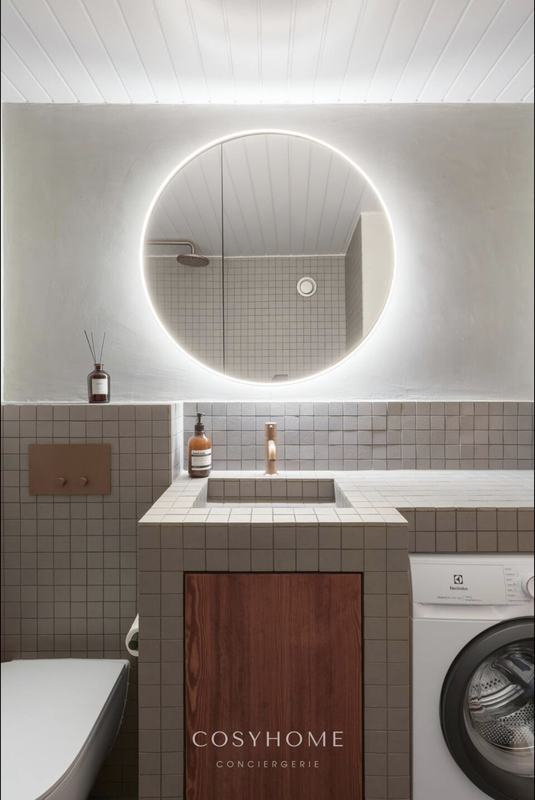
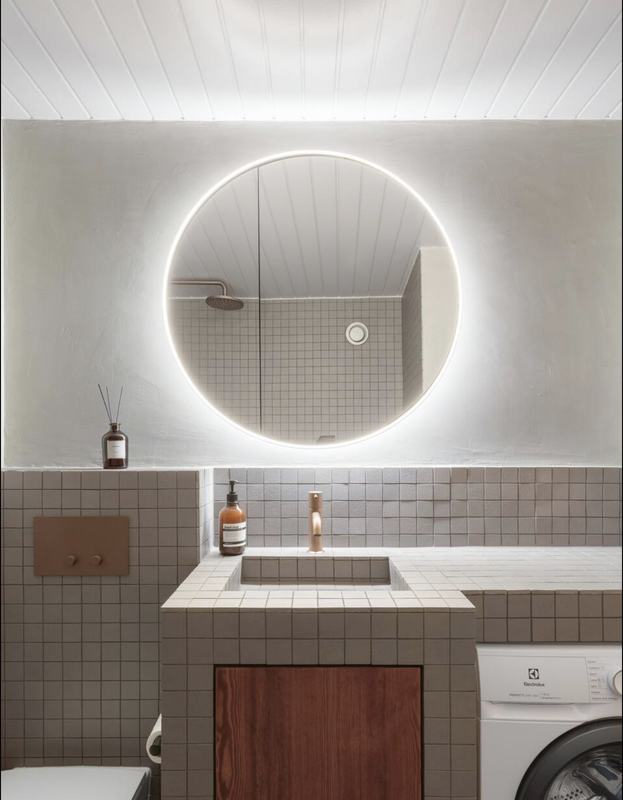
Retire toute mention CosyHome : photos du propriétaire, recadrages, textes
Claude-Session: https://claude.ai/code/session_0189ruPcNKvbbUJWKBvAGqPG

diff --git a/index.html b/index.html
@@ -14,7 +14,7 @@
 <link rel="manifest" href="manifest.webmanifest">
 <meta property="og:title" content="La Concorde · Crans-Montana">
 <meta property="og:description" content="Un balcon sur les Alpes, à 1362 m.">
-<meta property="og:image" content="img/balcon-1600.jpg">
+<meta property="og:image" content="img/hero-1600.jpg">
 <link rel="preconnect" href="https://fonts.googleapis.com">
 <link rel="preconnect" href="https://fonts.gstatic.com" crossorigin>
 <link href="https://fonts.googleapis.com/css2?family=Instrument+Serif:ital@0;1&family=Hanken+Grotesk:wght@400;500;600&display=swap" rel="stylesheet">
@@ -242,12 +242,14 @@ footer .sign { font-family: var(--serif); font-size: 28px; color: var(--ink); ma
         <p class="fr">D’où le terrazzo gris perle du hall, le mélèze massif au plafond et en façade, les pilotis de béton, la lucarne zénithale au‑dessus du palier, l’escalier en blocs de pierre et les box à skis surdimensionnés, en réalité taillés pour accueillir aussi le matériel de golf.</p><p class="en">Hence the pearl-grey terrazzo in the hall, solid larch on the ceilings and façade, the concrete piers, the full-height skylight above the landing, the stone-block staircase and the oversized ski lockers, in fact sized for golf bags too.</p>
         <p class="fr">L’architecture regardait moins vers les chalets de l’Oberland que vers la Californie des Case Study Houses, d’Eichler et de Neutra : plafond de bois continu qui file de l’intérieur vers l’extérieur, baies horizontales en bandeau, balcon qui prolonge le séjour. Le mélèze, bois des hautes vallées valaisannes, y tient le rôle du séquoia.</p><p class="en">The architecture looked less to the chalets of the Bernese Oberland than to the California of the Case Study Houses, Eichler and Neutra: a continuous timber ceiling running from inside to outside, horizontal ribbon windows, a balcony that extends the living room. Larch, the wood of the high Valais valleys, plays the part of redwood.</p>
       </div>
-      <div class="shots two" style="margin-top:6px">
-        <figure><button data-full="img/immeuble-1600.jpg"><img src="img/immeuble-800.jpg" alt="Façade sud-ouest" loading="lazy"></button>
+      <div class="shots">
+        <figure class="wide"><button data-full="img/facade-34-1600.jpg"><img src="img/facade-34-800.jpg" srcset="img/facade-34-800.jpg 800w, img/facade-34-1600.jpg 1600w" sizes="(min-width:1200px) 1160px, 100vw" alt="Façade sud-ouest" loading="lazy"></button>
       <figcaption><span class="fr">Façade sud‑ouest : ossature mélèze sur pilotis de béton, balcons en porte‑à‑faux.</span><span class="en">South-west façade: larch frame on concrete piers, cantilevered balconies.</span></figcaption></figure>
-        <figure><button data-full="img/escalier-1600.jpg"><img src="img/escalier-800.jpg" alt="Lucarne au-dessus de l’escalier" loading="lazy"></button>
-      <figcaption><span class="fr">La lucarne zénithale au‑dessus du palier.</span><span class="en">The skylight above the landing.</span></figcaption></figure>
       </div>
+    </div>
+    <div class="shots" style="margin-top:10px">
+      <figure class="wide"><button data-full="img/facade-ete-1600.jpg"><img src="img/facade-ete-800.jpg" srcset="img/facade-ete-800.jpg 800w, img/facade-ete-1600.jpg 1600w" sizes="(min-width:1200px) 1160px, 100vw" alt="Façade en été" loading="lazy"></button>
+      <figcaption><span class="fr">Les baies en bandeau sous le grand avant‑toit.</span><span class="en">Ribbon windows under the deep eaves.</span></figcaption></figure>
     </div>
   </div>
 </section>
@@ -281,19 +283,19 @@ footer .sign { font-family: var(--serif); font-size: 28px; color: var(--ink); ma
         <p class="fr">Il court le long des baies sous le plafond de mélèze, entre la cheminée et la table ronde, face à la vue.</p><p class="en">It runs along the windows under the larch ceiling, between the fireplace and the round table, facing the view.</p>
       </div>
       <div class="shots">
-        <figure><button data-full="img/sejour-1600.jpg"><img src="img/sejour-800.jpg" srcset="img/sejour-800.jpg 800w, img/sejour-1600.jpg 1600w" sizes="(min-width:1200px) 1160px, 100vw" alt="Séjour" loading="lazy"></button></figure>
+        <figure class="wide"><button data-full="img/sejour-soleil-1600.jpg"><img src="img/sejour-soleil-800.jpg" srcset="img/sejour-soleil-800.jpg 800w, img/sejour-soleil-1600.jpg 1600w" sizes="(min-width:1200px) 1160px, 100vw" alt="Séjour au soleil" loading="lazy"></button></figure>
       </div>
-      <div class="shots two" style="margin-top:10px">
+      <div class="shots three" style="margin-top:10px">
+        <figure><button data-full="img/table-vue-1600.jpg"><img src="img/table-vue-800.jpg" alt="Table ronde et chaises Cesca" loading="lazy"></button>
+      <figcaption><span class="fr">Chaises Cesca de Marcel Breuer autour de la table ronde, face à la plaine.</span><span class="en">Marcel Breuer’s Cesca chairs around the round table, facing the plain.</span></figcaption></figure>
         <figure><button data-full="img/cheminee-1600.jpg"><img src="img/cheminee-800.jpg" alt="Cheminée et Lamp B" loading="lazy"></button>
-      <figcaption><span class="fr">Hotte de cheminée blanche descendant du plafond, poêle en fonte, Lamp B de Thierry Dreyfus.</span><span class="en">White chimney hood dropping from the ceiling, cast-iron stove, Thierry Dreyfus’s Lamp B.</span></figcaption></figure>
-        <figure><button data-full="img/cesca-1600.jpg"><img src="img/cesca-800.jpg" alt="Chaises Cesca" loading="lazy"></button>
-      <figcaption><span class="fr">Chaises Cesca de Marcel Breuer autour de la table ronde.</span><span class="en">Marcel Breuer’s Cesca chairs around the round table.</span></figcaption></figure>
-      </div>
-      <div class="shots two" style="margin-top:10px">
+      <figcaption><span class="fr">Hotte de cheminée blanche descendant du plafond, poêle en fonte, Lamp B.</span><span class="en">White chimney hood dropping from the ceiling, cast-iron stove, Lamp B.</span></figcaption></figure>
         <figure><button data-full="img/string-1600.jpg"><img src="img/string-800.jpg" alt="Étagère String et lampe Lucca" loading="lazy"></button>
-      <figcaption><span class="fr">Étagères String de Nils Strinning, lampe Lucca sur un tabouret zigzag de Pols Potten.</span><span class="en">Nils Strinning’s String shelves, a Lucca lamp on a Pols Potten zigzag stool.</span></figcaption></figure>
-        <figure><button data-full="img/sejour-vue-1600.jpg"><img src="img/sejour-vue-800.jpg" alt="Séjour, vue sur les Alpes" loading="lazy"></button>
-      <figcaption><span class="fr">Les sommets dans l’axe de la fenêtre.</span><span class="en">The peaks framed by the window.</span></figcaption></figure>
+      <figcaption><span class="fr">Étagères String de Nils Strinning, lampe Lucca.</span><span class="en">Nils Strinning’s String shelves, Lucca lamp.</span></figcaption></figure>
+      </div>
+      <div class="shots" style="margin-top:10px">
+        <figure class="wide"><button data-full="img/enfilade-1600.jpg"><img src="img/enfilade-800.jpg" srcset="img/enfilade-800.jpg 800w, img/enfilade-1600.jpg 1600w" sizes="(min-width:1200px) 1160px, 100vw" alt="Enfilade et bar" loading="lazy"></button>
+      <figcaption><span class="fr">L’enfilade, la platine, et le bar de la cuisine dans le prolongement.</span><span class="en">The sideboard, the turntable, and the kitchen bar beyond.</span></figcaption></figure>
       </div>
     </article>
 
@@ -303,8 +305,9 @@ footer .sign { font-family: var(--serif); font-size: 28px; color: var(--ink); ma
         <h3><span class="fr">La cuisine</span><span class="en">Kitchen</span></h3>
         <p class="fr">Les pièces les plus précieuses, les quatre Tabourets Haut de Jean Prouvé, sont dans la pièce la plus utilitaire, au bar de la cuisine. Prouvé les avait dessinés pour les espaces de travail collectif. Ce geste résume le projet : refuser la hiérarchie convenue entre pièces nobles et pièces fonctionnelles.</p><p class="en">The most valuable pieces, Jean Prouvé’s four Tabouret Haut stools, sit in the most utilitarian room, at the kitchen bar. Prouvé designed them for shared workspaces. That gesture sums up the project: refusing the usual hierarchy between noble rooms and functional ones.</p>
       </div>
-      <div class="shots">
-        <figure><button data-full="img/cuisine-1600.jpg"><img src="img/cuisine-800.jpg" srcset="img/cuisine-800.jpg 800w, img/cuisine-1600.jpg 1600w" sizes="(min-width:1200px) 1160px, 100vw" alt="Cuisine" loading="lazy"></button></figure>
+      <div class="shots two">
+        <figure><button data-full="img/bar-jour-1600.jpg"><img src="img/bar-jour-800.jpg" alt="Le bar et les tabourets Prouvé" loading="lazy"></button></figure>
+        <figure><button data-full="img/bar-nuit-1600.jpg"><img src="img/bar-nuit-800.jpg" alt="Le bar le soir" loading="lazy"></button></figure>
       </div>
     </article>
 
@@ -315,8 +318,13 @@ footer .sign { font-family: var(--serif); font-size: 28px; color: var(--ink); ma
         <p class="fr">Chambre principale : tête de lit en velours vert mousse capitonné, lampe Coupé de Joe Colombo au chevet, lampadaire Parentesi, placards d’origine en mélèze massif. Chambre des enfants : lits superposés en bois clair faits sur mesure, plus longs et plus robustes que les standards pour accueillir des adultes, avec un tiroir qui transforme le couchage du bas en lit double.</p><p class="en">Main bedroom: buttoned moss-green velvet headboard, Joe Colombo’s Coupé lamp at the bedside, a Parentesi floor lamp, original solid larch wardrobes. Children’s room: made-to-measure bunk beds in pale wood, longer and sturdier than standard so adults fit, with a drawer that turns the lower bunk into a double bed.</p>
       </div>
       <div class="shots">
-        <figure><button data-full="img/chambre-1600.jpg"><img src="img/chambre-800.jpg" srcset="img/chambre-800.jpg 800w, img/chambre-1600.jpg 1600w" sizes="(min-width:1200px) 1160px, 100vw" alt="Chambre principale" loading="lazy"></button></figure>
-        <figure><button data-full="img/chambre-enfants-1600.jpg"><img src="img/chambre-enfants-800.jpg" srcset="img/chambre-enfants-800.jpg 800w, img/chambre-enfants-1600.jpg 1600w" sizes="(min-width:1200px) 1160px, 100vw" alt="Chambre des enfants" loading="lazy"></button></figure>
+        <figure class="wide"><button data-full="img/chambre-1600.jpg"><img src="img/chambre-800.jpg" srcset="img/chambre-800.jpg 800w, img/chambre-1600.jpg 1600w" sizes="(min-width:1200px) 1160px, 100vw" alt="Chambre principale" loading="lazy"></button></figure>
+      </div>
+      <div class="shots three" style="margin-top:10px">
+        <figure><button data-full="img/lits-2-1600.jpg"><img src="img/lits-2-800.jpg" alt="Lits superposés sur mesure" loading="lazy"></button></figure>
+        <figure><button data-full="img/lits-1-1600.jpg"><img src="img/lits-1-800.jpg" alt="Lits et escalier à tiroirs" loading="lazy"></button></figure>
+        <figure><button data-full="img/parentesi-1600.jpg"><img src="img/parentesi-800.jpg" alt="Lampadaire Parentesi" loading="lazy"></button>
+      <figcaption><span class="fr">Parentesi : le projecteur coulisse sur le câble.</span><span class="en">Parentesi: the spotlight slides along the cable.</span></figcaption></figure>
       </div>
     </article>
 
@@ -340,7 +348,8 @@ footer .sign { font-family: var(--serif); font-size: 28px; color: var(--ink); ma
         <p class="fr">Quinze mètres carrés sous l’avant‑toit, dans le prolongement du séjour, avec les fauteuils Crate de Gerrit Rietveld.</p><p class="en">Fifteen square metres under the eaves, carrying on from the living room, with Gerrit Rietveld’s Crate chairs.</p>
       </div>
       <div class="shots">
-        <figure><button data-full="img/balcon-1600.jpg"><img src="img/balcon-800.jpg" srcset="img/balcon-800.jpg 800w, img/balcon-1600.jpg 1600w" sizes="(min-width:1200px) 1160px, 100vw" alt="Balcon" loading="lazy"></button></figure>
+        <figure class="wide"><button data-full="img/hiver-balcon-1600.jpg"><img src="img/hiver-balcon-800.jpg" srcset="img/hiver-balcon-800.jpg 800w, img/hiver-balcon-1600.jpg 1600w" sizes="(min-width:1200px) 1160px, 100vw" alt="Le balcon en hiver" loading="lazy"></button>
+      <figcaption><span class="fr">Premier soleil d’hiver depuis le balcon.</span><span class="en">First winter sun from the balcony.</span></figcaption></figure>
       </div>
       <div class="shots two" style="margin-top:10px">
         <figure><button data-full="img/balcon-facade-1600.jpg"><img src="img/balcon-facade-800.jpg" alt="Balcon le long de la façade" loading="lazy"></button>
@@ -404,6 +413,10 @@ footer .sign { font-family: var(--serif); font-size: 28px; color: var(--ink); ma
       <figure><button data-full="img/soir-table-1600.jpg"><img src="img/soir-table-800.jpg" alt="Table le soir" loading="lazy"></button>
       <figcaption><span class="fr">La table ronde et les Cesca, rideaux tirés.</span><span class="en">The round table and the Cescas, curtains drawn.</span></figcaption></figure>
     </div>
+    <div class="shots" style="margin-top:10px">
+      <figure class="wide"><button data-full="img/sejour-spider-1600.jpg"><img src="img/sejour-spider-800.jpg" srcset="img/sejour-spider-800.jpg 800w, img/sejour-spider-1600.jpg 1600w" sizes="(min-width:1200px) 1160px, 100vw" alt="Le séjour le soir" loading="lazy"></button>
+      <figcaption><span class="fr">Le séjour le soir, deux lampes Spider de Joe Colombo.</span><span class="en">The living room at night, two Joe Colombo Spider lamps.</span></figcaption></figure>
+    </div>
     <figure class="wide" style="margin-top:10px"><button data-full="img/vallee-nuit-1600.jpg"><img src="img/vallee-nuit-800.jpg" srcset="img/vallee-nuit-800.jpg 800w, img/vallee-nuit-1600.jpg 1600w" sizes="(min-width:1200px) 1160px, 100vw" alt="La vallée de nuit" loading="lazy"></button>
       <figcaption><span class="fr">Vue depuis le balcon, vingt‑trois heures. Sion, Sierre et les villages du coteau.</span><span class="en">From the balcony, eleven at night. Sion, Sierre and the hillside villages.</span></figcaption></figure>
   </div>
@@ -426,14 +439,20 @@ footer .sign { font-family: var(--serif); font-size: 28px; color: var(--ink); ma
     <h2><span class="fr">La montagne, pas seulement le ski</span><span class="en">The mountain, not just skiing</span></h2>
     <div class="prose"><p class="fr">Le ski n’est qu’une saison parmi d’autres. Crans‑Montana, station horizontale exposée plein sud sur le haut plateau, se vit toute l’année : golf, lacs accessibles à pied, bisses, sentiers, vélo, parapente, festival de jazz, rencontres littéraires.</p><p class="en">Skiing is only one season among others. Crans-Montana, a level resort facing due south on its sunny plateau, is lived all year round: golf, lakes within walking distance, bisses, trails, cycling, paragliding, a jazz festival, literary events.</p></div>
     <div class="shots" style="margin-top:28px">
-      <figure><button data-full="img/ete-1600.jpg"><img src="img/ete-800.jpg" srcset="img/ete-800.jpg 800w, img/ete-1600.jpg 1600w" sizes="(min-width:1200px) 1160px, 100vw" alt="L’été sur la plaine du Rhône" loading="lazy"></button>
-      <figcaption><span class="fr">L’été.</span><span class="en">Summer.</span></figcaption></figure>
+      <figure class="wide"><button data-full="img/crans-montana-1600.jpg"><img src="img/crans-montana-800.jpg" srcset="img/crans-montana-800.jpg 800w, img/crans-montana-1600.jpg 1600w" sizes="(min-width:1200px) 1160px, 100vw" alt="Crans-Montana en été" loading="lazy"></button>
+      <figcaption><span class="fr">Crans‑Montana, l’été.</span><span class="en">Crans-Montana in summer.</span></figcaption></figure>
+      <figure class="wide"><button data-full="img/ete-1600.jpg"><img src="img/ete-800.jpg" srcset="img/ete-800.jpg 800w, img/ete-1600.jpg 1600w" sizes="(min-width:1200px) 1160px, 100vw" alt="L’été sur la plaine du Rhône" loading="lazy"></button>
+      <figcaption><span class="fr">La plaine du Rhône en été.</span><span class="en">The Rhône plain in summer.</span></figcaption></figure>
     </div>
     <div class="shots two" style="margin-top:10px">
       <figure><button data-full="img/automne-1600.jpg"><img src="img/automne-800.jpg" alt="L’automne" loading="lazy"></button>
       <figcaption><span class="fr">L’automne, brume entre les mélèzes.</span><span class="en">Autumn, haze among the larches.</span></figcaption></figure>
       <figure><button data-full="img/immeuble-hiver-1600.jpg"><img src="img/immeuble-hiver-800.jpg" alt="L’immeuble en hiver" loading="lazy"></button>
       <figcaption><span class="fr">L’hiver, La Concorde sous la neige.</span><span class="en">Winter, La Concorde under snow.</span></figcaption></figure>
+    </div>
+    <div class="shots" style="margin-top:10px">
+      <figure class="wide"><button data-full="img/fenetre-hiver-1600.jpg"><img src="img/fenetre-hiver-800.jpg" srcset="img/fenetre-hiver-800.jpg 800w, img/fenetre-hiver-1600.jpg 1600w" sizes="(min-width:1200px) 1160px, 100vw" alt="L’hiver depuis la fenêtre" loading="lazy"></button>
+      <figcaption><span class="fr">L’hiver, depuis la fenêtre du séjour.</span><span class="en">Winter, from the living-room window.</span></figcaption></figure>
     </div>
   </div>
 </section>
@@ -453,7 +472,6 @@ footer .sign { font-family: var(--serif); font-size: 28px; color: var(--ink); ma
         <div><dt>Exposition</dt><dd><span class="fr">Sud‑ouest, vue sur la plaine du Rhône et les Alpes valaisannes</span><span class="en">South-west, over the Rhône plain and the Valais Alps</span></dd></div>
         <div><dt><span class="fr">D’origine</span><span class="en">Original</span></dt><dd><span class="fr">Plafond en mélèze lambrissé, sol en terre cuite, portes laquées corail, terrazzo dans le hall</span><span class="en">Slatted larch ceiling, terracotta floor, coral-lacquered doors, terrazzo in the hall</span></dd></div>
         <div><dt>Altitude</dt><dd>1362 m</dd></div>
-        <div><dt><span class="fr">Location</span><span class="en">Rentals</span></dt><dd><span class="fr">Gérée par CosyHome Conciergerie</span><span class="en">Managed by CosyHome Conciergerie</span></dd></div>
         <div><dt><span class="fr">Sur place</span><span class="en">On site</span></dt><dd><a href="https://alexandrecegarra.github.io/BUS-La-Concorde-/"><span class="fr">Horaires de bus, arrêt Les Ehripis</span><span class="en">Bus timetables, Les Ehripis stop</span></a></dd></div>
       </dl>
     </div>
@@ -464,7 +482,6 @@ footer .sign { font-family: var(--serif); font-size: 28px; color: var(--ink); ma
 
 <footer>
   <div class="sign">La Concorde · 1968</div>
-  <span class="fr">Photographies : CosyHome Conciergerie et propriétaire.</span><span class="en">Photographs: CosyHome Conciergerie and owner.</span>
 </footer>
 
 <div class="sheet-bg" id="sheet" hidden>

diff --git a/src/photos.py b/src/photos.py
@@ -3,6 +3,10 @@
 Originals are NOT kept in the repo (too heavy): put them in photos_src/
 (same file names) and run:  python3 src/photos.py
 Outputs img/<slug>-1600.jpg and img/<slug>-800.jpg.
+
+No CosyHome watermark may appear on the site: their photos are either replaced
+by Alexandre's own (photos_src/a-*) or cropped above the mark ("keep" = share of
+the height kept from the top).
 """
 from pathlib import Path
 from PIL import Image, ImageOps, ImageFilter
@@ -11,36 +15,43 @@ ROOT = Path(__file__).resolve().parent.parent
 SRC = ROOT / "photos_src"
 OUT = ROOT / "img"
 
-# slug: (source file, crop box in fractions (left, top, right, bottom) or None)
+# slug: (source file, options)
 PHOTOS = {
-    "sejour":         ("IMG_1941.png",  "bars"),
-    "sejour-vue":     ("IMG_1948.jpeg", None),
-    "cuisine":        ("IMG_1960.png",  "bars"),
-    "cesca":          ("IMG_1961.jpeg", None),
-    "chambre":        ("IMG_1963.png",  "bars"),
-    "chambre-enfants":("IMG_1967.png",  "bars"),
-    "sdb":            ("IMG_1971.jpeg", None),
-    "sdb-vasque":     ("IMG_1972.jpeg", None),
-    "sdb-douche":     ("IMG_1973.jpeg", None),
-    "balcon":         ("IMG_1977.png",  "bars"),
-    "balcon-facade":  ("IMG_1982.jpeg", None),
-    "escalier":       ("IMG_3869.jpeg", None),
-    "vallee":         ("IMG_7668.jpeg", None),
-    "soir-fenetre":   ("IMG_8764.jpeg", None),
-    "soir-balcon":    ("IMG_8767.jpeg", None),
-    "soir-table":     ("IMG_8815.jpeg", None),
-    "lampe-b":        ("IMG_8818.jpeg", None),
-    "vallee-nuit":    ("IMG_8939.jpeg", None),
-    # images extracted from the dossier La_Concorde_Crans_1968_last.pdf
-    "immeuble-hiver": ("pdf-immeuble-hiver.jpg", None),
-    "immeuble":       ("pdf-immeuble.jpg", None),   # sharper than IMG_0009
-    "sejour-large":   ("pdf-sejour-large.jpg", None),
-    "cheminee":       ("pdf-cheminee.jpg", None),
-    "toio":           ("pdf-toio.jpg", None),
-    "string":         ("pdf-string.jpg", None),
-    "ete":            ("pdf-ete.jpg", None),
-    "automne":        ("pdf-automne.jpg", None),
-    "plan":           ("pdf-plan.jpg", None),
+    # CosyHome photos, cropped above the watermark
+    "hero":           ("IMG_1977.png",  {"bars": True, "keep": 0.77}),
+    "chambre":        ("IMG_1963.png",  {"bars": True, "keep": 0.84}),
+    "sdb":            ("IMG_1971.jpeg", {"keep": 0.86}),
+    "sdb-vasque":     ("IMG_1972.jpeg", {"keep": 0.87}),
+    "sdb-douche":     ("IMG_1973.jpeg", {"keep": 0.86}),
+    "balcon-facade":  ("IMG_1982.jpeg", {"keep": 0.86}),
+    "string":         ("pdf-string.jpg", {"keep": 0.94}),
+    # Alexandre's own photos
+    "vallee":         ("IMG_7668.jpeg", {}),
+    "soir-fenetre":   ("IMG_8764.jpeg", {}),
+    "soir-balcon":    ("IMG_8767.jpeg", {}),
+    "soir-table":     ("IMG_8815.jpeg", {}),
+    "lampe-b":        ("IMG_8818.jpeg", {}),
+    "vallee-nuit":    ("IMG_8939.jpeg", {}),
+    "immeuble-hiver": ("pdf-immeuble-hiver.jpg", {}),
+    "cheminee":       ("pdf-cheminee.jpg", {}),
+    "toio":           ("pdf-toio.jpg", {}),
+    "ete":            ("pdf-ete.jpg", {}),
+    "automne":        ("pdf-automne.jpg", {}),
+    "plan":           ("pdf-plan.jpg", {}),
+    "facade-34":      ("a-facade-34.jpg", {}),
+    "facade-ete":     ("a-facade-ete.jpg", {}),
+    "hiver-balcon":   ("a-hiver-balcon.jpg", {}),
+    "fenetre-hiver":  ("a-fenetre-hiver.jpg", {}),
+    "crans-montana":  ("a-crans-montana.jpg", {}),
+    "sejour-soleil":  ("a-sejour-soleil.jpg", {}),
+    "table-vue":      ("a-table-vue.jpg", {}),
+    "enfilade":       ("a-enfilade.jpg", {}),
+    "bar-jour":       ("a-bar-jour.jpg", {}),
+    "bar-nuit":       ("a-bar-nuit.jpg", {}),
+    "parentesi":      ("a-parentesi.jpg", {}),
+    "lits-1":         ("a-lits-1.jpg", {}),
+    "lits-2":         ("a-lits-2.jpg", {}),
+    "sejour-spider":  ("a-sejour-spider.png", {"bars": True}),
 }
 
 # privacy: blur number plates and a passer-by (pixel boxes on the source image)
@@ -50,30 +61,39 @@ BLUR = {
 
 
 def trim_bars(im):
-    """CosyHome PNG exports carry ~31 px black bands top and bottom."""
+    """Remove black bands (CosyHome exports top/bottom, iPhone screenshots left/right)."""
     w, h = im.size
     g = im.convert("L")
 
-    def dark(y):
+    def dark_row(y):
         return max(g.crop((0, y, w, y + 1)).resize((50, 1)).getdata()) < 25
 
-    t, b = 0, h - 1
-    while t < h // 6 and dark(t):
+    def dark_col(x):
+        return max(g.crop((x, 0, x + 1, h)).resize((1, 50)).getdata()) < 25
+
+    t, b, l, r = 0, h - 1, 0, w - 1
+    while t < h // 6 and dark_row(t):
         t += 1
-    while b > h - h // 6 and dark(b):
+    while b > h - h // 6 and dark_row(b):
         b -= 1
+    while l < w // 6 and dark_col(l):
+        l += 1
+    while r > w - w // 6 and dark_col(r):
+        r -= 1
     m = 4  # small safety margin
-    return im.crop((m, t + m, w - m, b - m))
+    return im.crop((l + (m if l else 0), t + (m if t else 0), r + 1 - (m if r < w - 1 else 0), b + 1 - (m if b < h - 1 else 0)))
 
 
 def main():
     OUT.mkdir(exist_ok=True)
-    for slug, (name, crop) in PHOTOS.items():
+    for slug, (name, opt) in PHOTOS.items():
         im = ImageOps.exif_transpose(Image.open(SRC / name)).convert("RGB")
-        if crop == "bars":
-            im = trim_bars(im)
         for box in BLUR.get(slug, []):
             im.paste(im.crop(box).filter(ImageFilter.GaussianBlur(14)), box[:2])
+        if opt.get("bars"):
+            im = trim_bars(im)
+        if "keep" in opt:
+            im = im.crop((0, 0, im.width, int(im.height * opt["keep"])))
         for size, q in ((1600, 80), (800, 76)):
             c = im.copy()
             c.thumbnail((size, size), Image.LANCZOS)

diff --git a/CLAUDE.md b/CLAUDE.md
@@ -7,7 +7,7 @@ Alexandre travaille uniquement depuis son iPhone et ne modifie pas le code : Cla
 ## Structure
 
 - `index.html` : la page entière (HTML, CSS, JS), écrite à la main. Bilingue : chaque texte existe en `<span class="fr">` et `<span class="en">`, le bouton FR/EN bascule `data-lang` sur `<html>`. Français par défaut.
-- `img/` : photos web en deux tailles (`-800.jpg`, `-1600.jpg`), produites par `src/photos.py` à partir des originaux placés dans `photos_src/` (non versionné, trop lourd). `hero-*.jpg` est le balcon recadré au-dessus du filigrane CosyHome.
+- `img/` : photos web en deux tailles (`-800.jpg`, `-1600.jpg`), produites par `src/photos.py` à partir des originaux placés dans `photos_src/` (non versionné, trop lourd). `hero-*.jpg` est le balcon recadré au-dessus du filigrane CosyHome (aussi produit par `src/photos.py`).
 - Icônes `apple-touch-icon.png`, `icon-192.png`, `icon-512.png` : recadrage carré de la photo du balcon (avant-toit, sommets, garde-corps), produit par `src/icon.py`. Changer le suffixe `?v=` dans `index.html` et le manifeste à chaque nouvelle icône. `manifest.webmanifest`, `.nojekyll`.
 
 ## Règles de contenu
@@ -18,7 +18,8 @@ Alexandre travaille uniquement depuis son iPhone et ne modifie pas le code : Cla
 - Ton factuel, sans vocabulaire de décoration ; ne jamais inventer de descriptions.
 - Parentesi : câble tendu du sol au plafond. Prouvé : dessiné pour les lieux de travail et les espaces collectifs ; garder « Ce geste résume le projet » en cuisine. Casiers à skis surdimensionnés, aussi pour le golf.
 - Pas d'adresse postale, pas de coordonnées GPS, pas de codes ni de numéros privés.
-- Photos CosyHome : filigrane conservé tant qu'Alexandre n'a pas fourni de versions sans filigrane.
+- Aucune mention CosyHome sur le site, ni filigrane ni texte (demande d'Alexandre). Ses propres photos (`photos_src/a-*`) remplacent celles de CosyHome ; les seules images CosyHome restantes (ouverture, chambre principale, salle de bain, balcon le long de la façade, String) sont recadrées au-dessus du filigrane (`keep` dans `src/photos.py`). Vérifier le bas de chaque image avant publication.
+- Ne pas publier la photo de l'entrée côté rue (enseigne et numéro de la rue visibles) ni celle de la cage d'escalier (numéro de porte).
 - Panorama : la liste des sommets vient de sa capture PeakFinder (cap 233°), dans l'ordre de gauche à droite.
 
 ## Vérifier puis publier
